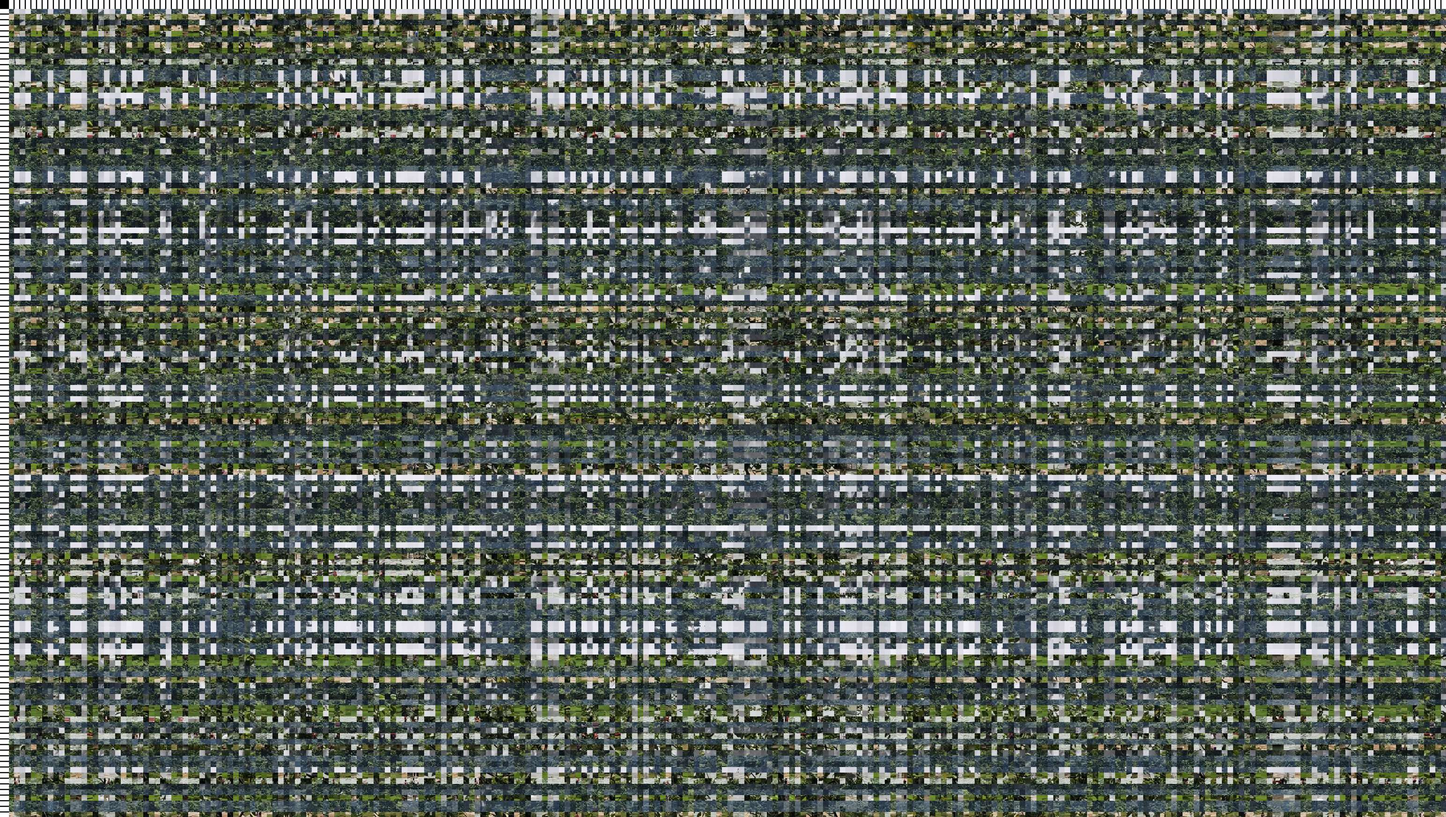
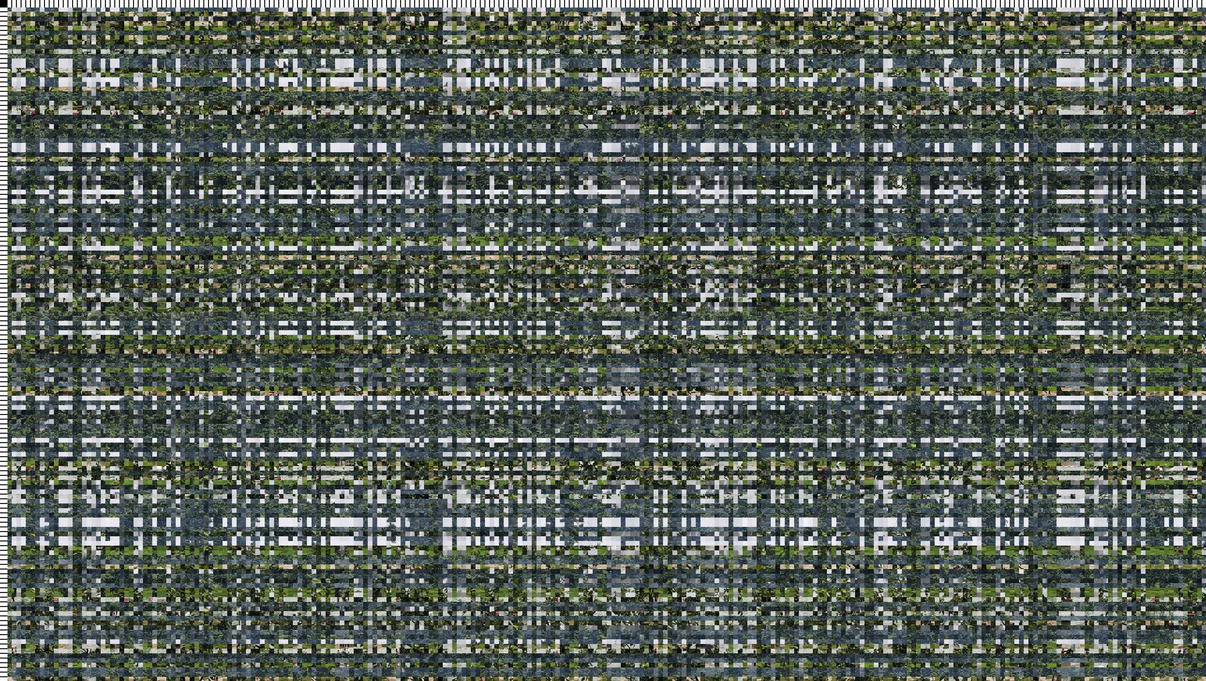
0.5 scaling / 50 quality in README.md

diff --git a/__generate_readme_pictures.py b/__generate_readme_pictures.py
@@ -2,8 +2,8 @@ from confusion import confuse, deconfuse
 from PIL import Image
 from config import *
 
-scaling = 0.6
-quality = 60
+scaling = 0.5
+quality = 50
 
 img = Image.open('example/image.png')
 con_img = confuse(img, (BLOCK_SIZE, BLOCK_SIZE), GRID_WIDTH, RULER_SIZE, DEFAULT_SEED)

diff --git a/README.md b/README.md
@@ -21,4 +21,5 @@ python __main__.py
 
 ![](example/compressed.jpg) → ![](example/final.jpg)
 
-我们发现只是因为强行打破像素连续性，导致压缩后出现了噪点。这可以通过加粗网格，增加缓冲避免。
+> [!CAUTION]
+> 若标尺损坏，将无法正确地解混淆图片。
